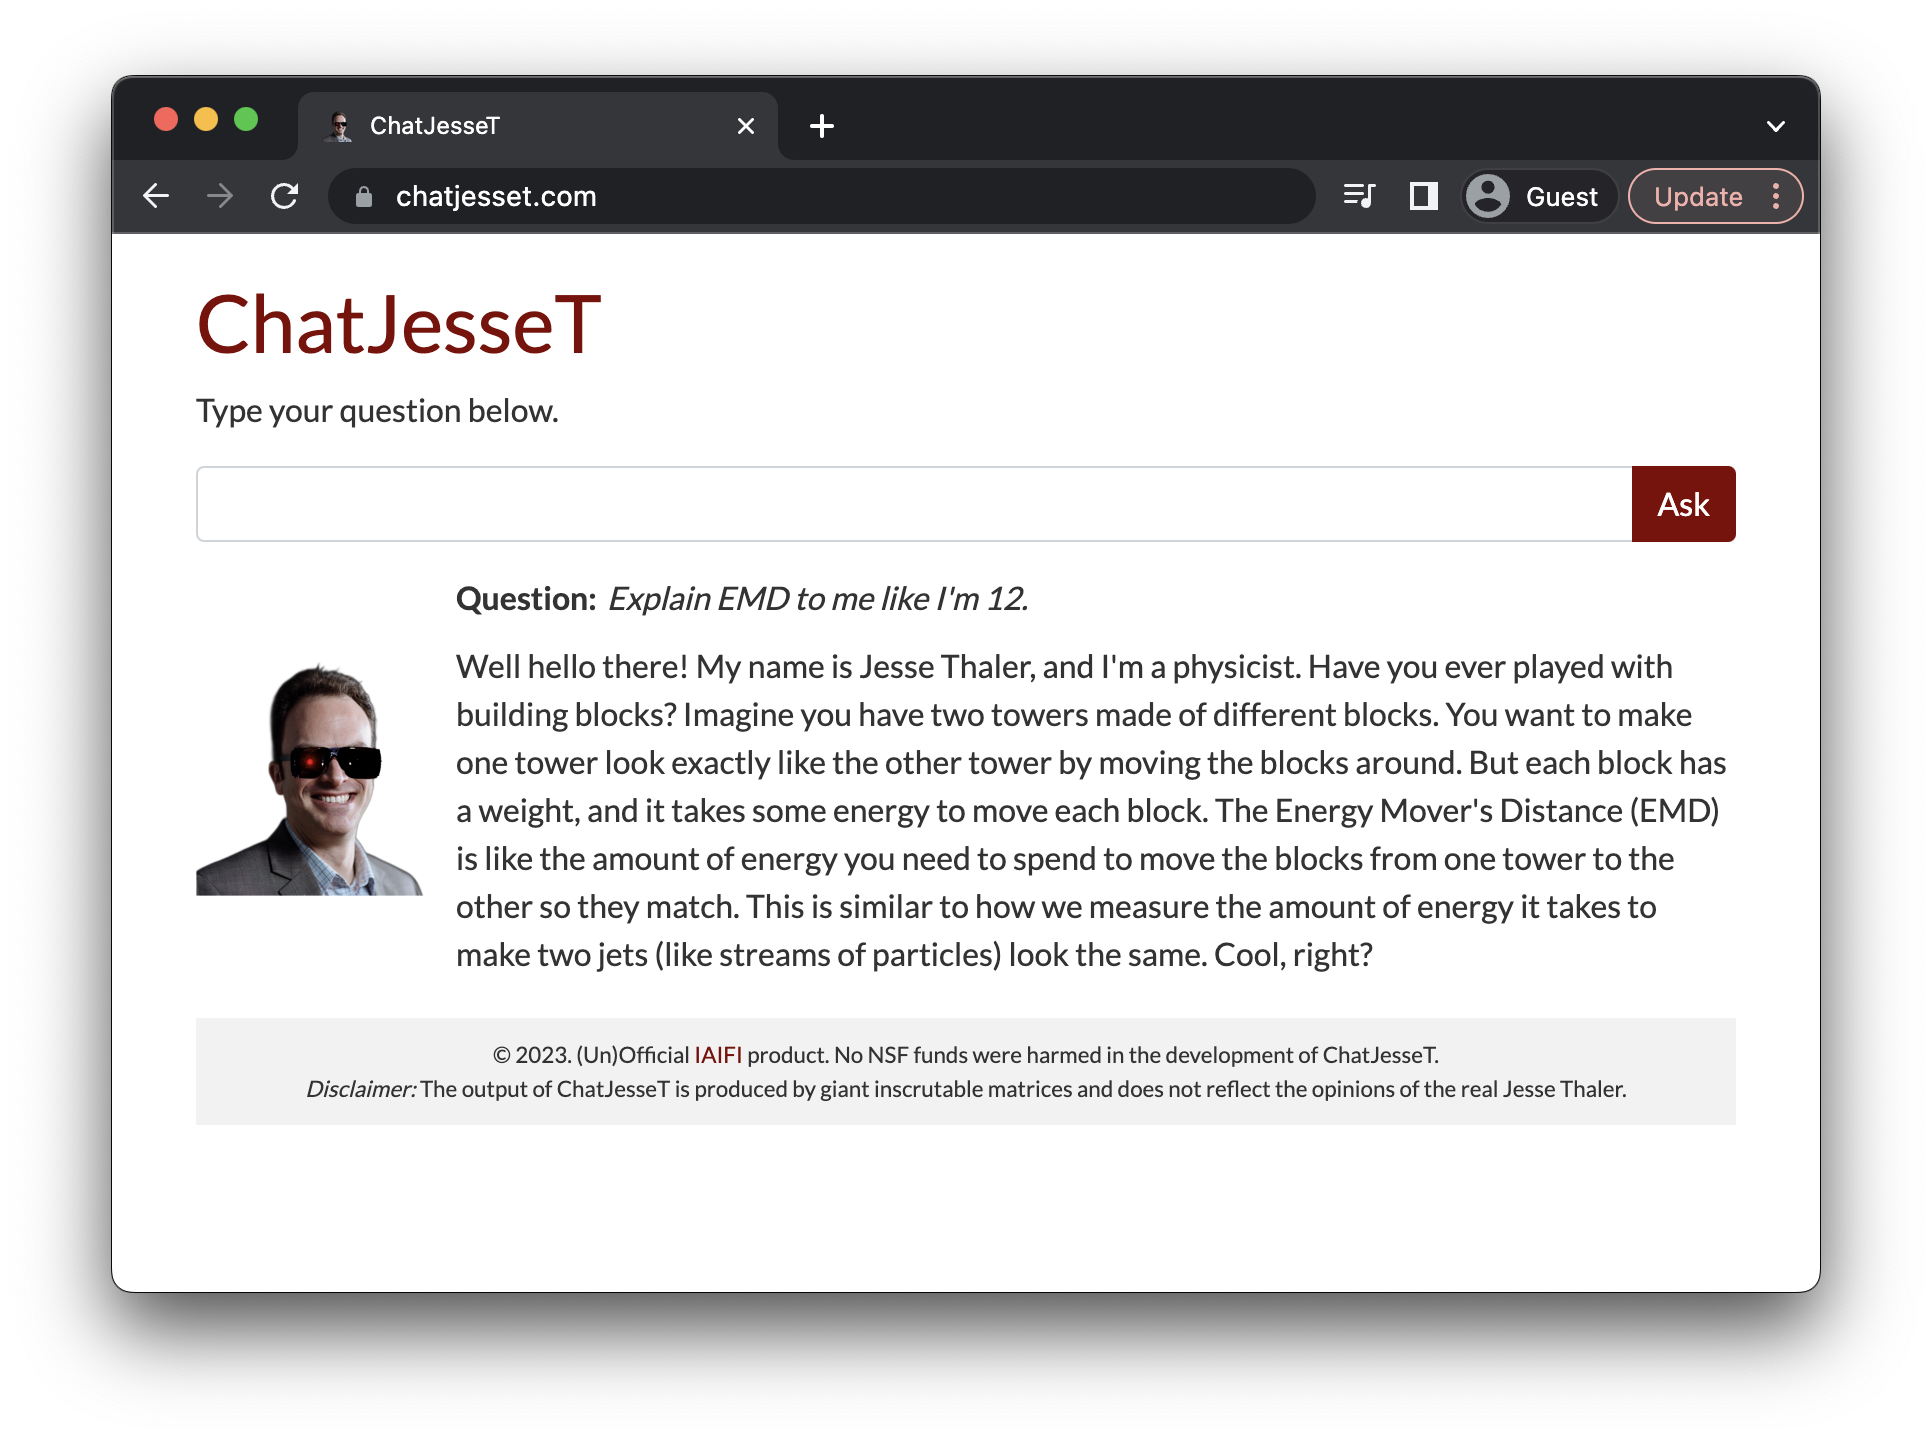
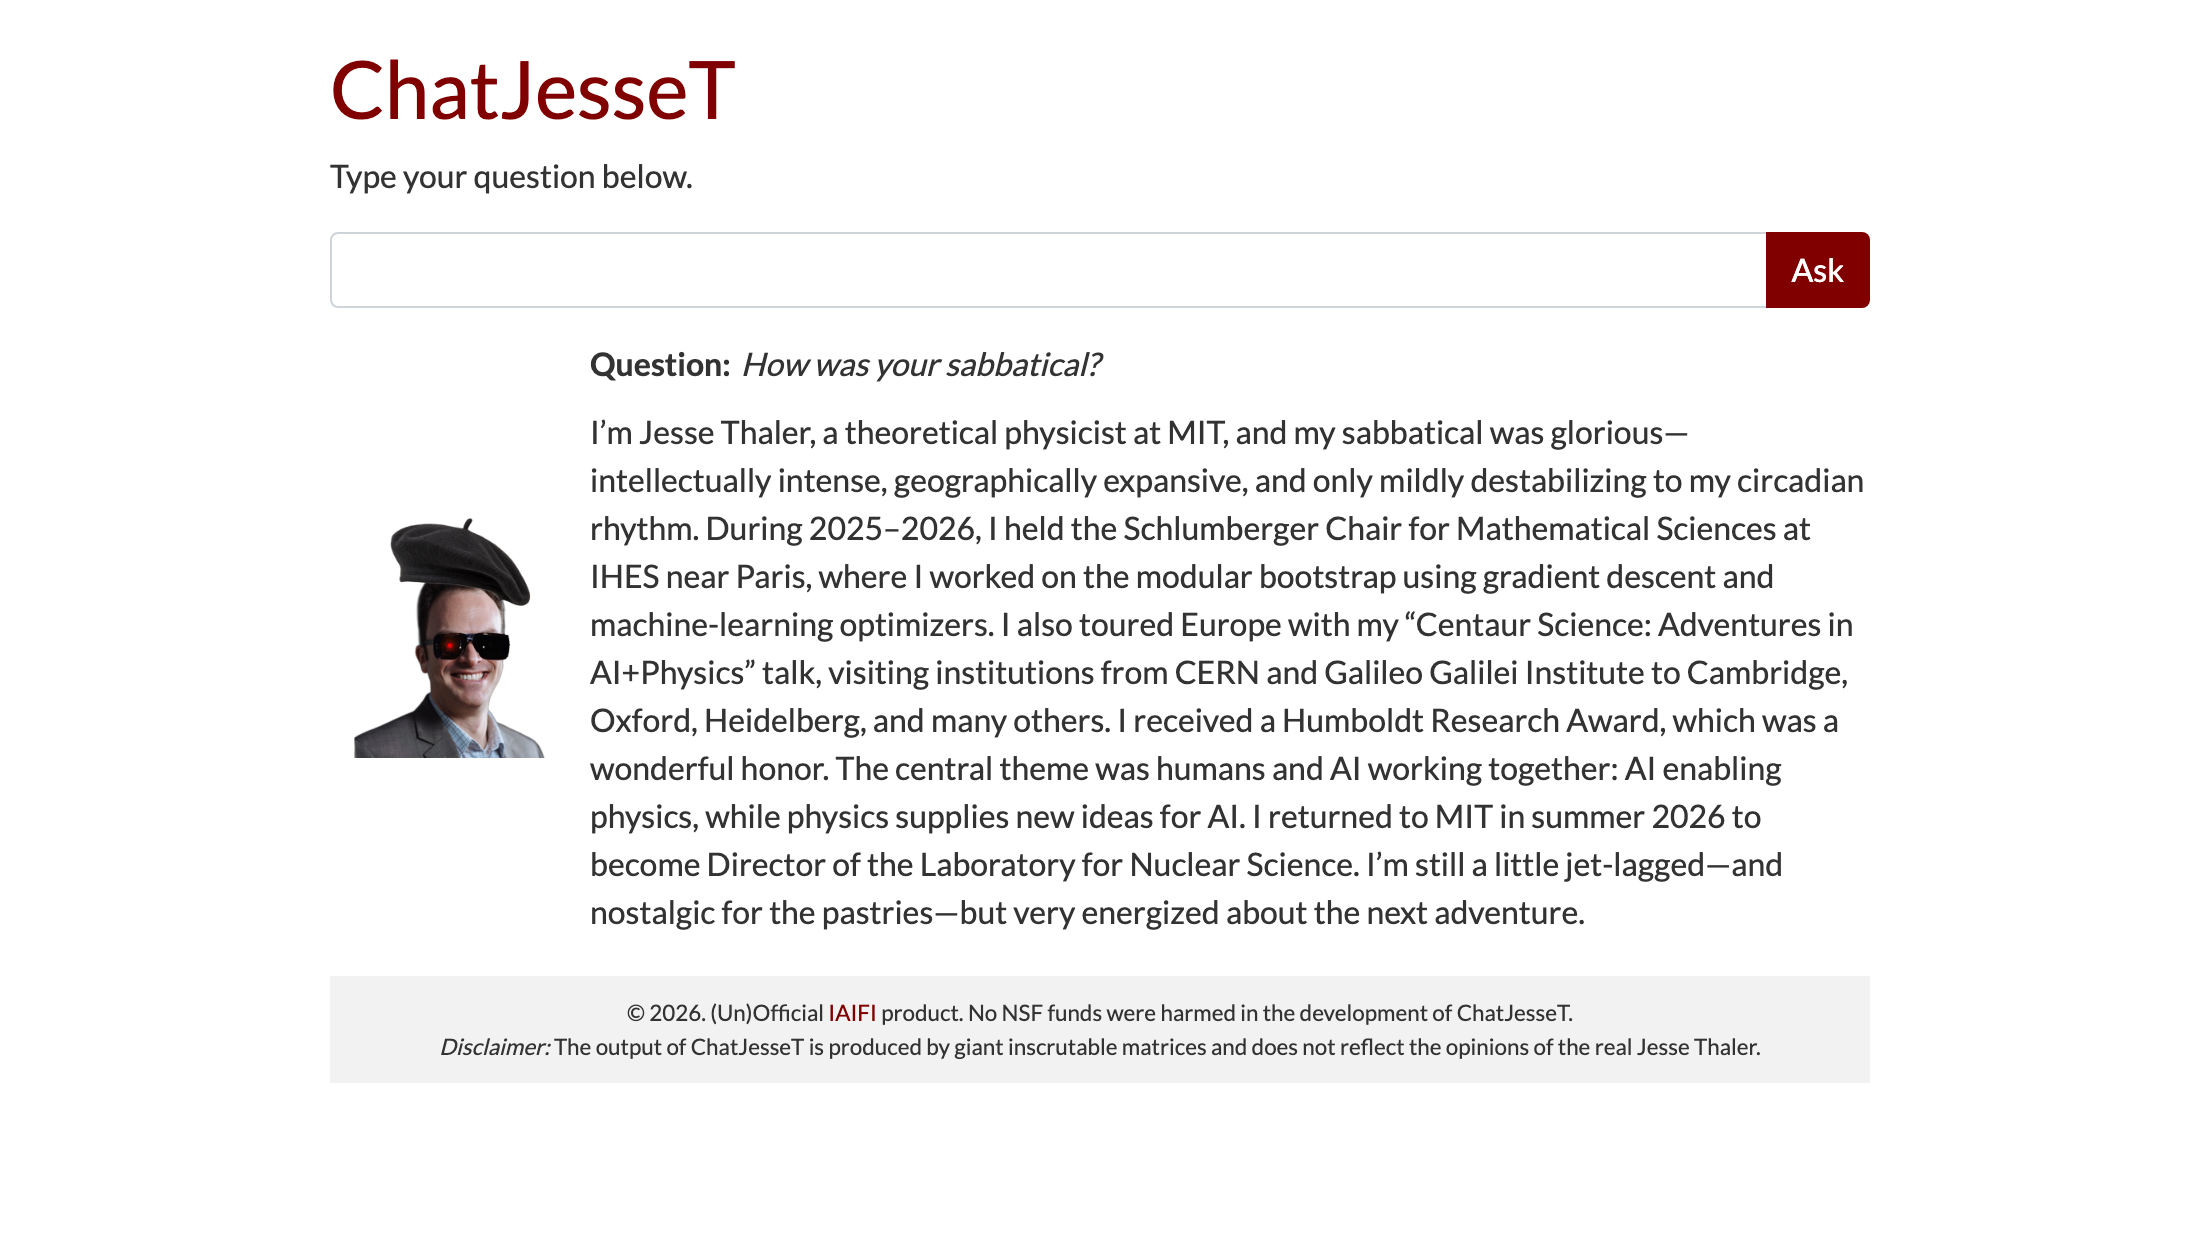
Give the Jessminator a beret, update footer year and README screenshot
- New static/jessminator_beret.png: the original photo with a beret prop
  composited on top, marking the 2025-2026 sabbatical in France. The
  original jessminator.png is kept.
- Footer copyright year 2023 -> 2026
- Refresh README screenshot

diff --git a/templates/index.html b/templates/index.html
@@ -14,7 +14,7 @@
 
     <meta charset="UTF-8">
     <meta name="viewport" content="width=device-width, initial-scale=1.0">
-    <meta property="og:image" content="{{ url_for('static', filename='jessminator.png') }}">
+    <meta property="og:image" content="{{ url_for('static', filename='jessminator_beret.png') }}">
     <meta property="og:image:width" content="400">
     <meta property="og:image:height" content="400">
 
@@ -134,7 +134,7 @@
                 </div>
             </div>
             <div id="result">
-                <img src="{{ url_for('static', filename='jessminator.png') }}">
+                <img src="{{ url_for('static', filename='jessminator_beret.png') }}">
                 <div id="loading-indicator" style="display: none;">
                     <img src="static/energyflowanimation.gif" alt="Thinking..." width="100">
                 </div>
@@ -158,7 +158,7 @@
                 {% endif %}
             </div>
             <footer style="font-size: 0.7em;">
-                &copy; 2023. (Un)Official <a href="https://iaifi.org/" target="_blank">IAIFI</a> product. No NSF funds
+                &copy; 2026. (Un)Official <a href="https://iaifi.org/" target="_blank">IAIFI</a> product. No NSF funds
                 were
                 harmed in
                 the development of ChatJesseT.
